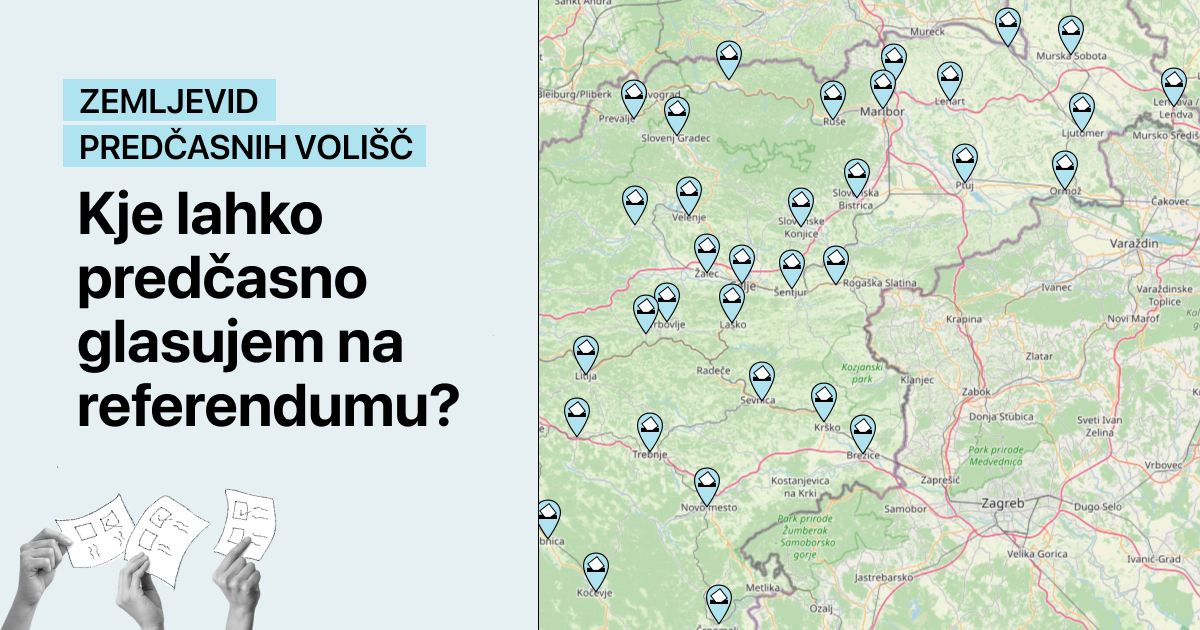
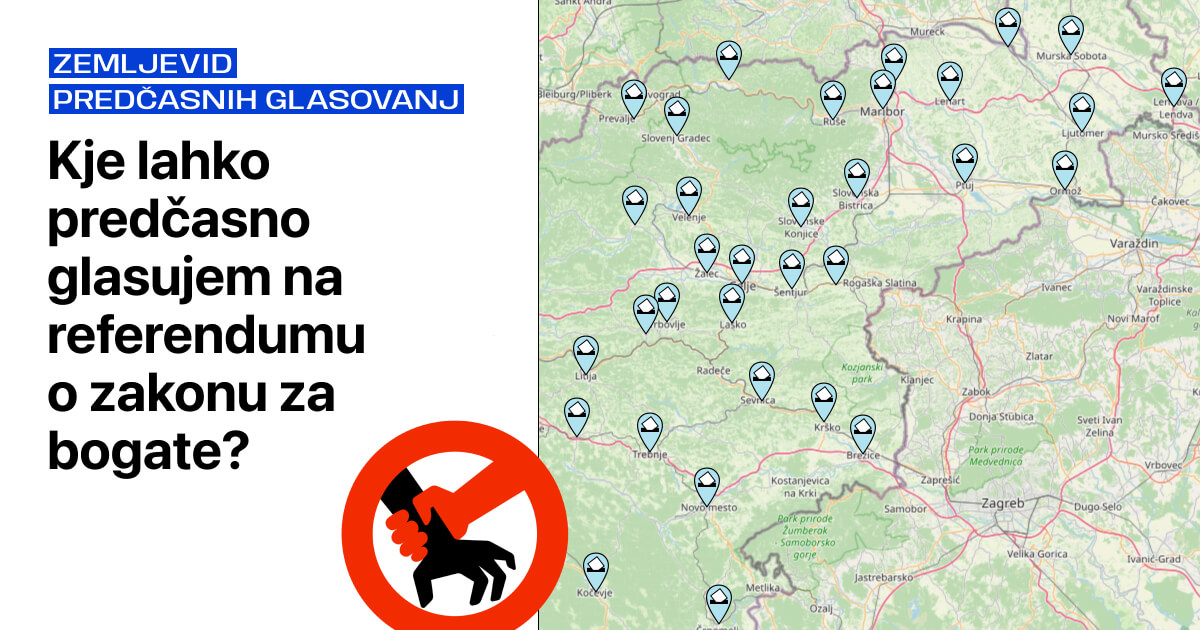
change og tags, image, text, color

diff --git a/index.html b/index.html
@@ -4,21 +4,21 @@
   <head>
     <meta charset=utf-8>
     <title>Zemljevid predčasnih volišč!</title>
-    <meta name=description content="Če želiš glas oddati v torek, sredo ali četrtek pred volilno nedeljo.">
+    <meta name=description content="Če želiš glas PROTI zakonu za bogate oddati v torek, sredo ali četrtek pred volilno nedeljo.">
     <meta name=viewport content="width=device-width,initial-scale=1">
     <link rel="icon" href="favicon.ico" />
     <link rel="apple-touch-icon" href="apple-touch-icon.png" />
     <meta property=og:title content="Zemljevid predčasnih volišč!">
     <meta property=og:type content="website">
-    <meta property=og:description content="Če želiš glas oddati v torek, sredo ali četrtek pred volilno nedeljo.">
+    <meta property=og:description content="Če želiš glas PROTI zakonu za bogate oddati v torek, sredo ali četrtek pred volilno nedeljo.">
     <meta property=og:image content="https://vodici.djnd.si/zemljevid/predcasno-glasovanje/zakon-za-bogate/images/predcasno-og.jpg">
     <meta name=twitter:card content=summary_large_image>
     <meta name=twitter:creator content=@danesjenovdan>
     <meta name=twitter:title content="Zemljevid predčasnih volišč!">
-    <meta name=twitter:description content="Če želiš glas oddati v torek, sredo ali četrtek pred volilno nedeljo.">
+    <meta name=twitter:description content="Če želiš glas PROTI zakonu za bogate oddati v torek, sredo ali četrtek pred volilno nedeljo.">
     <meta name=twitter:image content="https://vodici.djnd.si/zemljevid/predcasno-glasovanje/zakon-za-bogate/images/predcasno-og.jpg">
     <link rel=stylesheet href="styles/vendor.afc25736.css">
-    <link rel=stylesheet href="styles/main.0c301494.css?v=6">
+    <link rel=stylesheet href="styles/main.0c301494.css?v=7">
     <script defer data-domain="vodici.djnd.si" src="https://plausible.lb.djnd.si/js/plausible.js"></script>
     <script src=scripts/vendor/modernizr.fbe20327.js></script>
   </head>
@@ -31,7 +31,7 @@
     </div>
     <div class="zavesa">
       <div>
-        <h1>Če te na dan referenduma o ZPPKŽ ne bo doma, lahko predčasno glasuješ v torek, 18., sredo, 19., in četrtek, 20. novembra.</h1>
+        <h1>Če te na dan referenduma o zakonu za bogate ne bo doma, lahko predčasno glasuješ PROTI v torek, 1., sredo, 2., in četrtek, 3. decembra.</h1>
         <p>Postopek za to je čisto preprost – vse, kar moraš storiti, je, da se (brez predhodne najave) oglasiš na volišču, ki ga je v tvojem okraju določila volilna komisija. Najdeš ga lahko s pomočjo spodnjega zemljevida.</p>
         <button type="button" class="button close-button">Poišči sebi najbližje predčasno volišče!<img class="arrow" src="images/arrow.svg" alt=""></button>
         <hr>

diff --git a/styles/main.0c301494.css b/styles/main.0c301494.css
@@ -8052,7 +8052,7 @@ button.close {
     background-image: linear-gradient(to left, #6ba8a0 0, #6ba8a0 14.28571429%, #6a1b9a 14.28571429%, #6a1b9a 28.57142857%, #2196f3 28.57142857%, #2196f3 42.85714286%, #8bc34a 42.85714286%, #8bc34a 57.14285714%, #ffeb3b 57.14285714%, #ffeb3b 71.42857143%, #ffb74d 71.42857143%, #ffb74d 85.71428571%, #ef5350 85.71428571%, #ef5350 100%);
     background-image: -webkit-linear-gradient(to left, #6ba8a0 0, #6ba8a0 14.28571429%, #6a1b9a 14.28571429%, #6a1b9a 28.57142857%, #2196f3 28.57142857%, #2196f3 42.85714286%, #8bc34a 42.85714286%, #8bc34a 57.14285714%, #ffeb3b 57.14285714%, #ffeb3b 71.42857143%, #ffb74d 71.42857143%, #ffb74d 85.71428571%, #ef5350 85.71428571%, #ef5350 100%);
     background-image: -ms-linear-gradient(to left, #6ba8a0 0, #6ba8a0 14.28571429%, #6a1b9a 14.28571429%, #6a1b9a 28.57142857%, #2196f3 28.57142857%, #2196f3 42.85714286%, #8bc34a 42.85714286%, #8bc34a 57.14285714%, #ffeb3b 57.14285714%, #ffeb3b 71.42857143%, #ffb74d 71.42857143%, #ffb74d 85.71428571%, #ef5350 85.71428571%, #ef5350 100%) */
-    background-color: #e6f0f3;
+    background-color: #FFECE8;
 }
 
 #themap {
@@ -8277,7 +8277,7 @@ button.close {
     line-height: 32px;
     font-weight: 600;
     color: #333;
-    background-color: #bae2ed;
+    background-color: #FFECE8;
     border: 0;
     box-shadow: 0 0 0 1px #333;
     cursor: pointer;
